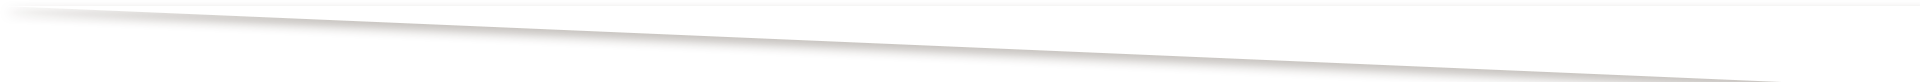
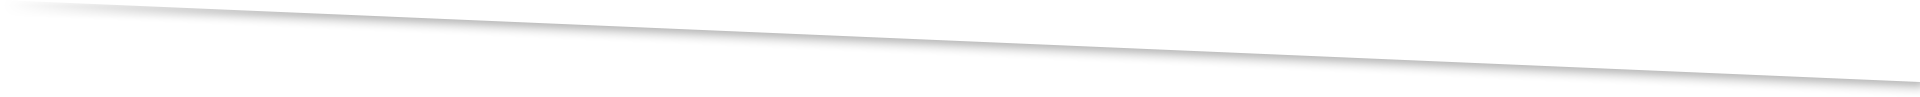
Изменение декоративных элементов TechnicalFeatureBlock.vue
* Изменена позиция блоков :before и :after с декоративным элементом

Changed region(s): [[0.0312, 0.0732, 1.0, 1.0]]

diff --git a/components/blocks/TechnicalFeaturesBlock.vue b/components/blocks/TechnicalFeaturesBlock.vue
@@ -40,7 +40,7 @@ export default {
         left: 0;
         content: "";
         display: block;
-        height: 80px;
+        height: 97px;
         width: 100%;
         background-repeat: no-repeat;
         background-size: cover;
@@ -48,11 +48,11 @@ export default {
     }
 
     &:before {
-        top: -6px;
+        top: 0px;
     }
 
     &:after {
-        bottom: -6px;
+        bottom: 0px;
         transform: rotate(180deg);
     }
 }
